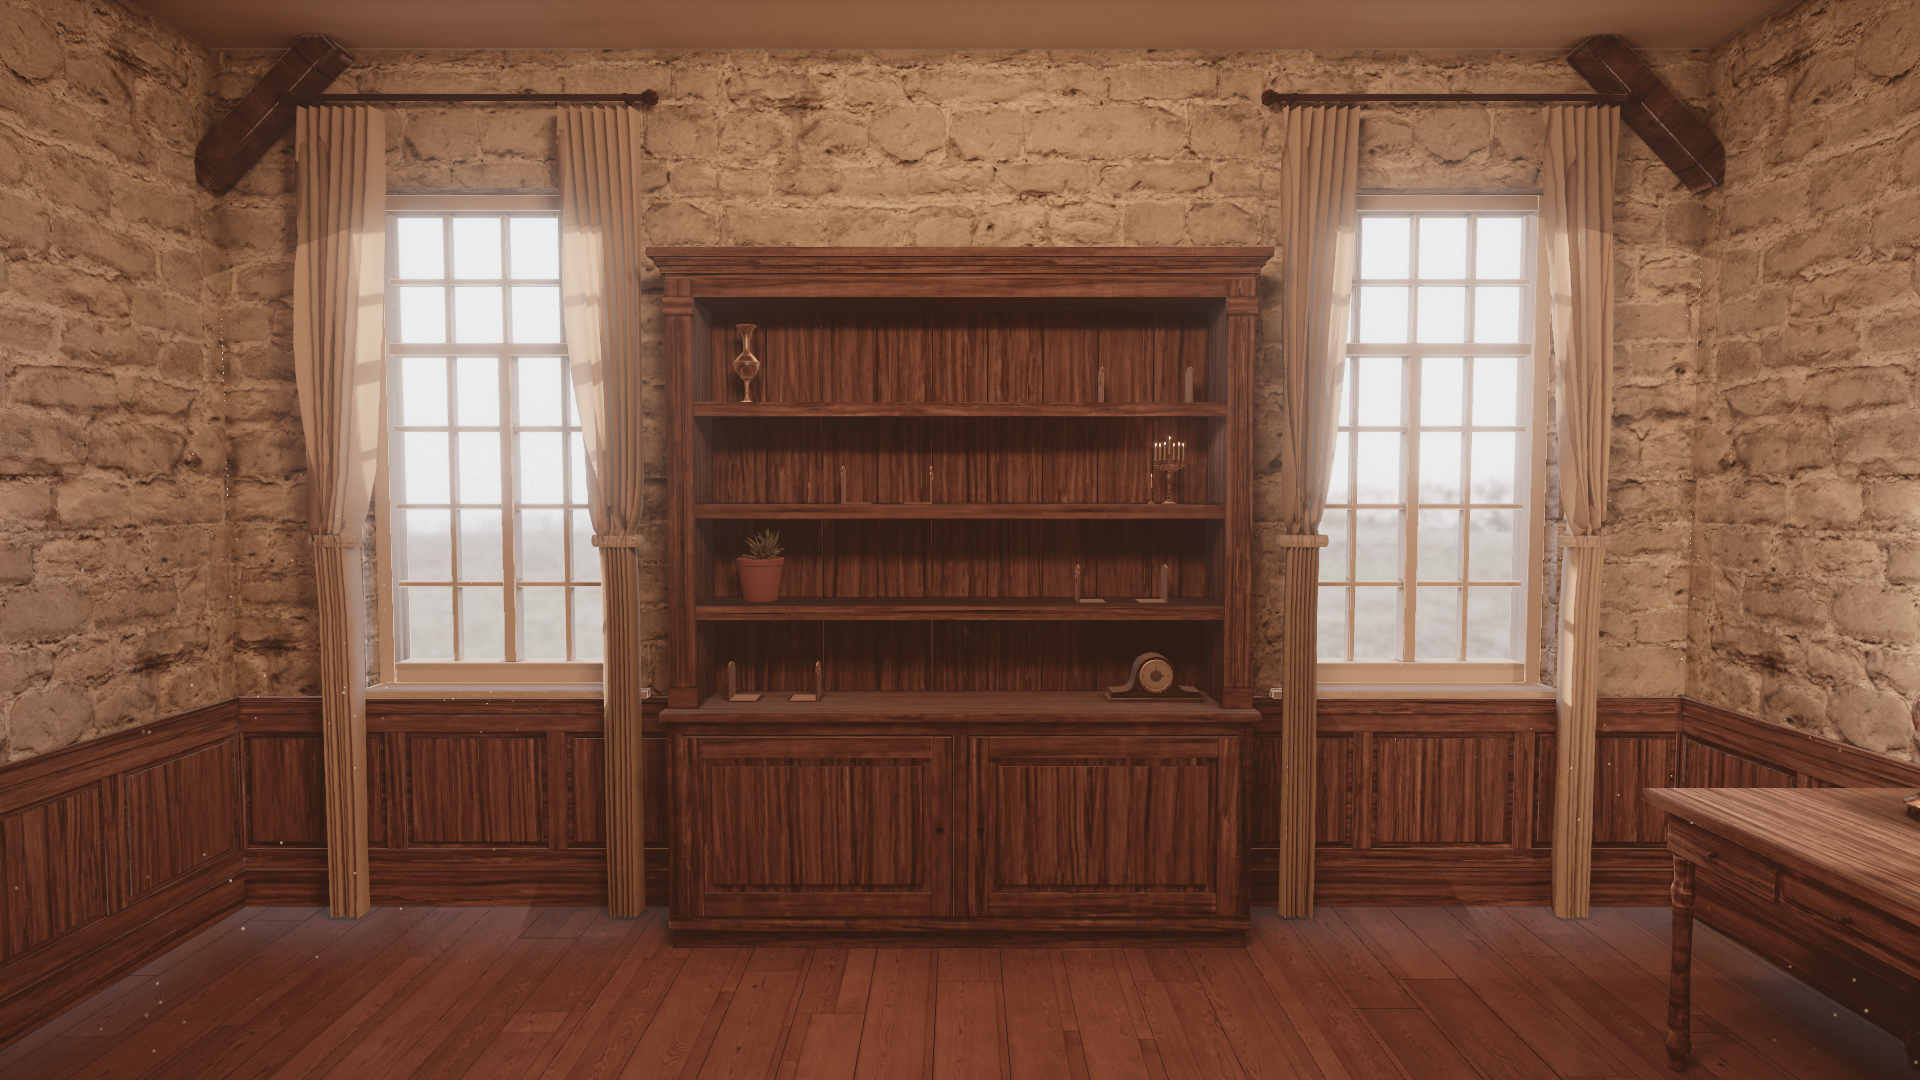
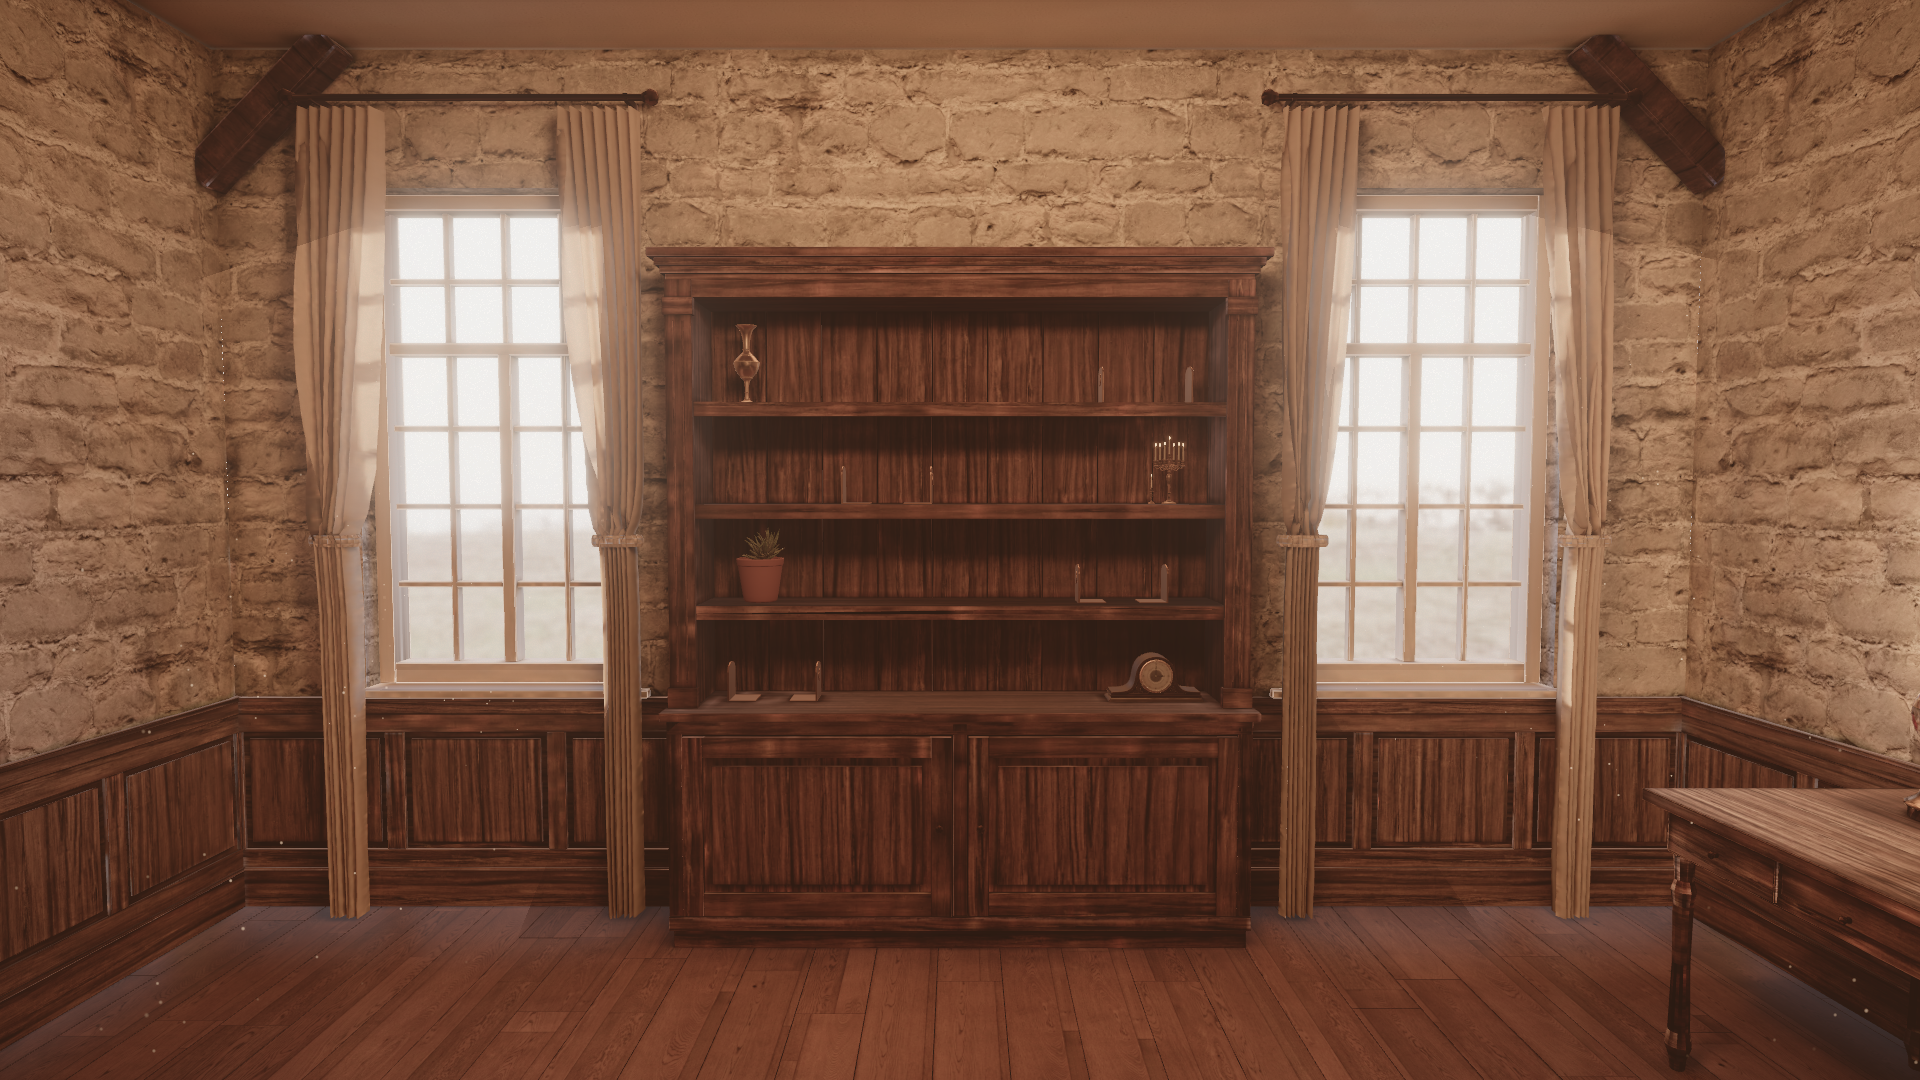
look dev S9: madeira menos saturada, céu âmbar, N0 à frente

diff --git a/scripts/prepare-textures.ts b/scripts/prepare-textures.ts
@@ -166,15 +166,15 @@ async function main() {
   mkdirSync(OUT, { recursive: true })
 
   // Floor: wide varnished planks, warmed toward floor base #7A4E32.
-  await pbr('floor_wood', 'floor', { mean: '#7A5438', saturation: 0.5, contrast: 1.15 }, { roughness: 0.32, spread: 0.7 })
+  await pbr('floor_wood', 'floor', { mean: '#7A5A40', saturation: 0.42, contrast: 1.15 }, { roughness: 0.32, spread: 0.7 })
   // Stone: light limestone/sandstone #A89A84–#C8BBA2, slightly warm.
   await pbr('wall_stone', 'stone', { mean: '#A8A08E', saturation: 0.4 }, { disp: true, roughness: 0.85 })
   // Bookcase: dark mahogany, 25% less saturated than the source.
-  await pbr('bookcase_wood', 'bookcase', { mean: '#5E4532', saturation: 0.32 }, { roughness: 0.42 })
+  await pbr('bookcase_wood', 'bookcase', { mean: '#5A4232', saturation: 0.25 }, { roughness: 0.42 })
   // Wainscot + door: same wood, one tone lighter (direção de arte: mesma família).
-  await pbr('bookcase_wood', 'wainscot', { mean: '#6A4C37', saturation: 0.32 }, { roughness: 0.45 })
+  await pbr('bookcase_wood', 'wainscot', { mean: '#66503C', saturation: 0.25 }, { roughness: 0.45 })
   // Desk: same family, between the two.
-  await pbr('bookcase_wood', 'desk', { mean: '#634632', saturation: 0.42 }, { roughness: 0.4 })
+  await pbr('bookcase_wood', 'desk', { mean: '#5E4836', saturation: 0.3 }, { roughness: 0.4 })
   // Beams: rough grey wood tinted to dark brown.
   await pbr('beam_wood', 'beam', { mean: '#46322A', saturation: 0.45, contrast: 1.1 }, { roughness: 0.78 })
   // Ceiling: warm plaster, never pure white.

diff --git a/src/scene/Sky.tsx b/src/scene/Sky.tsx
@@ -9,7 +9,7 @@ import { REFLECT_LAYER } from './FloorReflection'
  * plane (a background would leak into the reflection under the walls). Display-referred JPEG, boosted to
  * read as bright outdoor light after AgX.
  */
-export function Sky({ intensity = 3.4 }: { intensity?: number }) {
+export function Sky({ intensity = 4.2 }: { intensity?: number }) {
   const tex = useTexture('/env/sky.jpg')
   const geometry = useMemo(() => {
     // upper hemisphere + ~10° below the horizon (all the windows can show); below it the reflection stays dark
@@ -33,7 +33,7 @@ export function Sky({ intensity = 3.4 }: { intensity?: number }) {
       onUpdate={(m) => m.layers.enable(REFLECT_LAYER)}
     >
       {/* warm, blown-out late-afternoon backplate (the bake keeps the real sky for the light) */}
-      <meshBasicMaterial map={tex} side={BackSide} depthWrite={false} color={new Color(intensity * 1.18, intensity * 1.0, intensity * 0.78)} fog={false} />
+      <meshBasicMaterial map={tex} side={BackSide} depthWrite={false} color={new Color(intensity * 1.4, intensity * 1.0, intensity * 0.6)} fog={false} />
     </mesh>
   )
 }

diff --git a/src/scene/LightBeams.tsx b/src/scene/LightBeams.tsx
@@ -173,7 +173,7 @@ export function LightBeams() {
       new ShaderMaterial({
         vertexShader: beamVertex,
         fragmentShader: beamFragment,
-        uniforms: { uColor: { value: sunColor }, uIntensity: { value: 3.2 }, uTime: { value: 0 } },
+        uniforms: { uColor: { value: sunColor }, uIntensity: { value: 4.5 }, uTime: { value: 0 } },
         transparent: true,
         depthWrite: false,
         blending: AdditiveBlending,

diff --git a/docs/look-dev/iteracoes.md b/docs/look-dev/iteracoes.md
@@ -56,3 +56,7 @@ Cada entrada: data/hora, o que mudou, notas por critério (art-reviewer), diverg
 ### S8 + L4 — 2026-10-15 (continuação pedida pelo usuário)
 - Sala: recomendações 1–2 do relatório aplicadas (céu do bake mais frio/forte, sol 22°, força 14), pedra #A8A08E (sat 0,4), madeiras sat 0,32, abraçadeiras a 1,4 m, velas do lustre creme, feixes mais fortes, latão dos apoios com menos reflexo do céu.
 - Livro: polaroid com cartão creme texturizado, foto com verniz brilhante (clearcoat) e sombra de contato no rebaixo; dourado menos acobreado; desgaste mais forte nas quinas; face interna das placas com o material da capa (a "dobra" do couro) — o degrau creme apontado pelo revisor era a guarda de papel aparecendo na seixa.
+- **art-reviewer (S8/L4):** sala 3 · 3 · 4 · 4 · 3; livro 3/5 — "iterar".
+
+### S9 — 2026-10-15 (draft; usuário escolheu "seguir o revisor")
+- Madeiras com saturação 0,25 (estante #5A4232, lambri #66503C, piso #7A5A40); céu das janelas âmbar estourado; feixes mais fortes; N0 0,4 m à frente (z=4,95): as folhas com maçanetas enquadram as laterais e o tapete fica no pé do quadro, como na referência.

diff --git a/docs/decisoes.md b/docs/decisoes.md
@@ -178,3 +178,9 @@ Formato de cada entrada:
 - Escolha: céu do bake mais frio (×0,74/0,90/1,30, força 2,0) como preenchimento; `lighting.sun.elevationDeg` 28 → 22 (manchas mais longas, sem sair da sala — conferido no shot); pedra #A8A08E com saturação 0,4; madeiras com saturação 0,32; `curtains.tiebackY` 1,0 → 1,4.
 - Como reverter: `config/room.json`, `blender/build_room.py` (bloco World), `scripts/prepare-textures.ts`.
 - Precisa do usuário? sim, confirmar pelo `compare_N0.png`.
+
+## 2026-10-15 — Look dev S9: seguir o revisor (escolha do usuário)
+- Contexto: o usuário escolheu "seguir o revisor" para a próxima rodada da sala.
+- Escolha: madeiras com saturação 0,25 e médias #5A4232 (estante), #66503C (lambri), #7A5A40 (piso); céu das janelas âmbar e estourado (tint 1,4/1,0/0,6 × 4,2); feixes mais fortes; `nodes.N0.position.z` 5,35 → 4,95.
+- Como reverter: `scripts/prepare-textures.ts`, `src/scene/Sky.tsx`, `config/room.json`.
+- Precisa do usuário? não (decidido).
